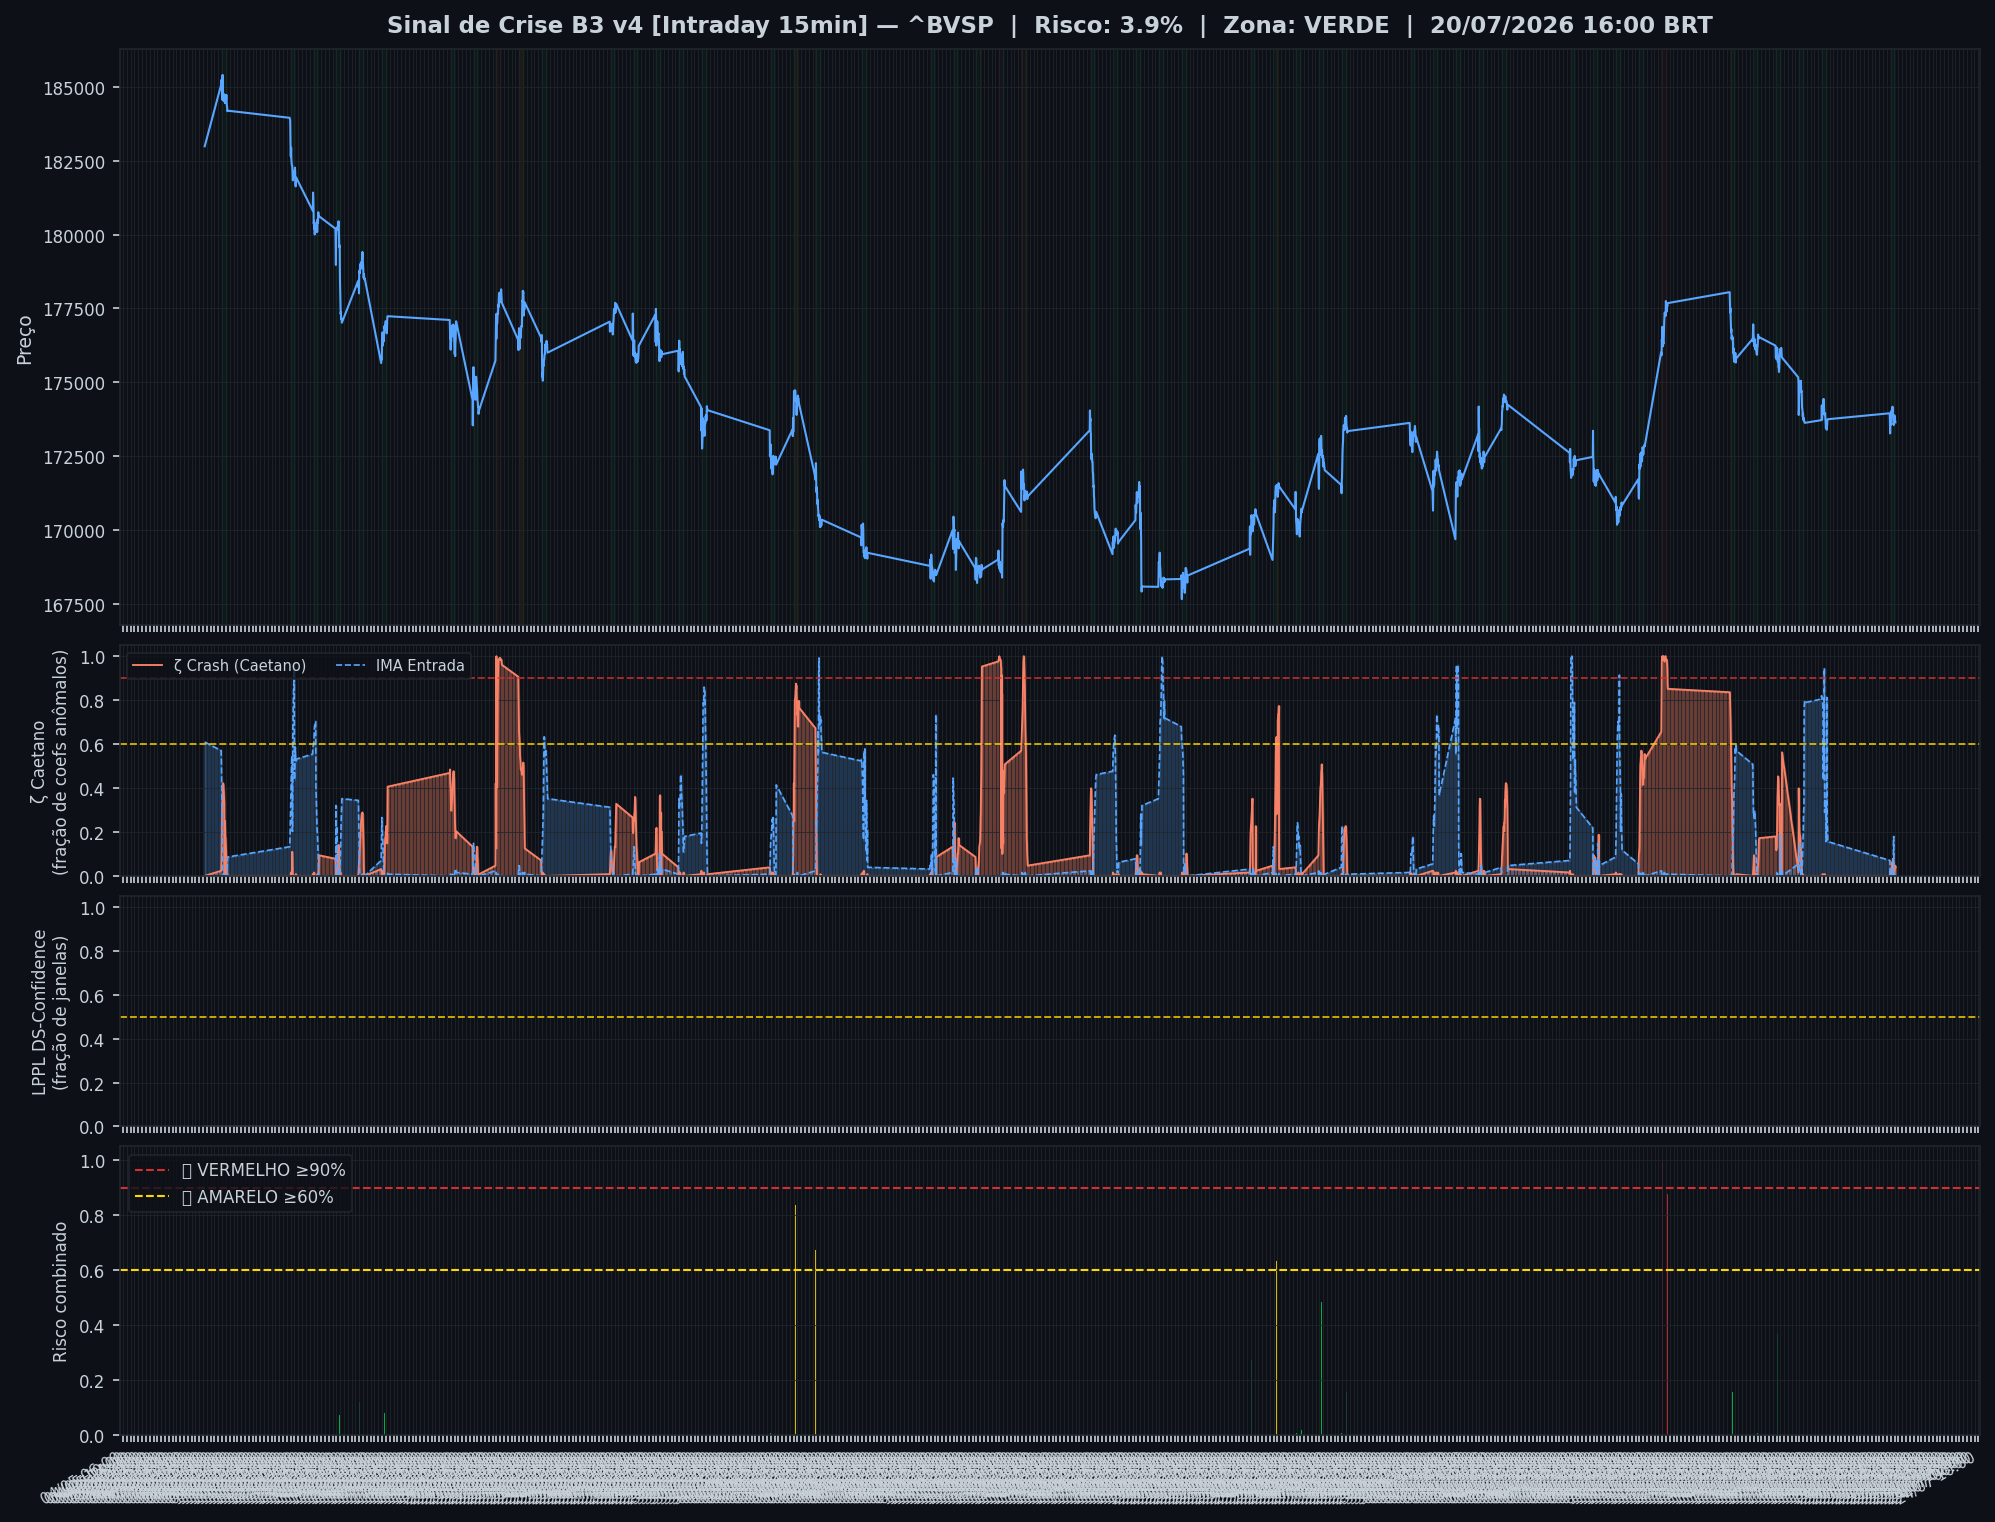
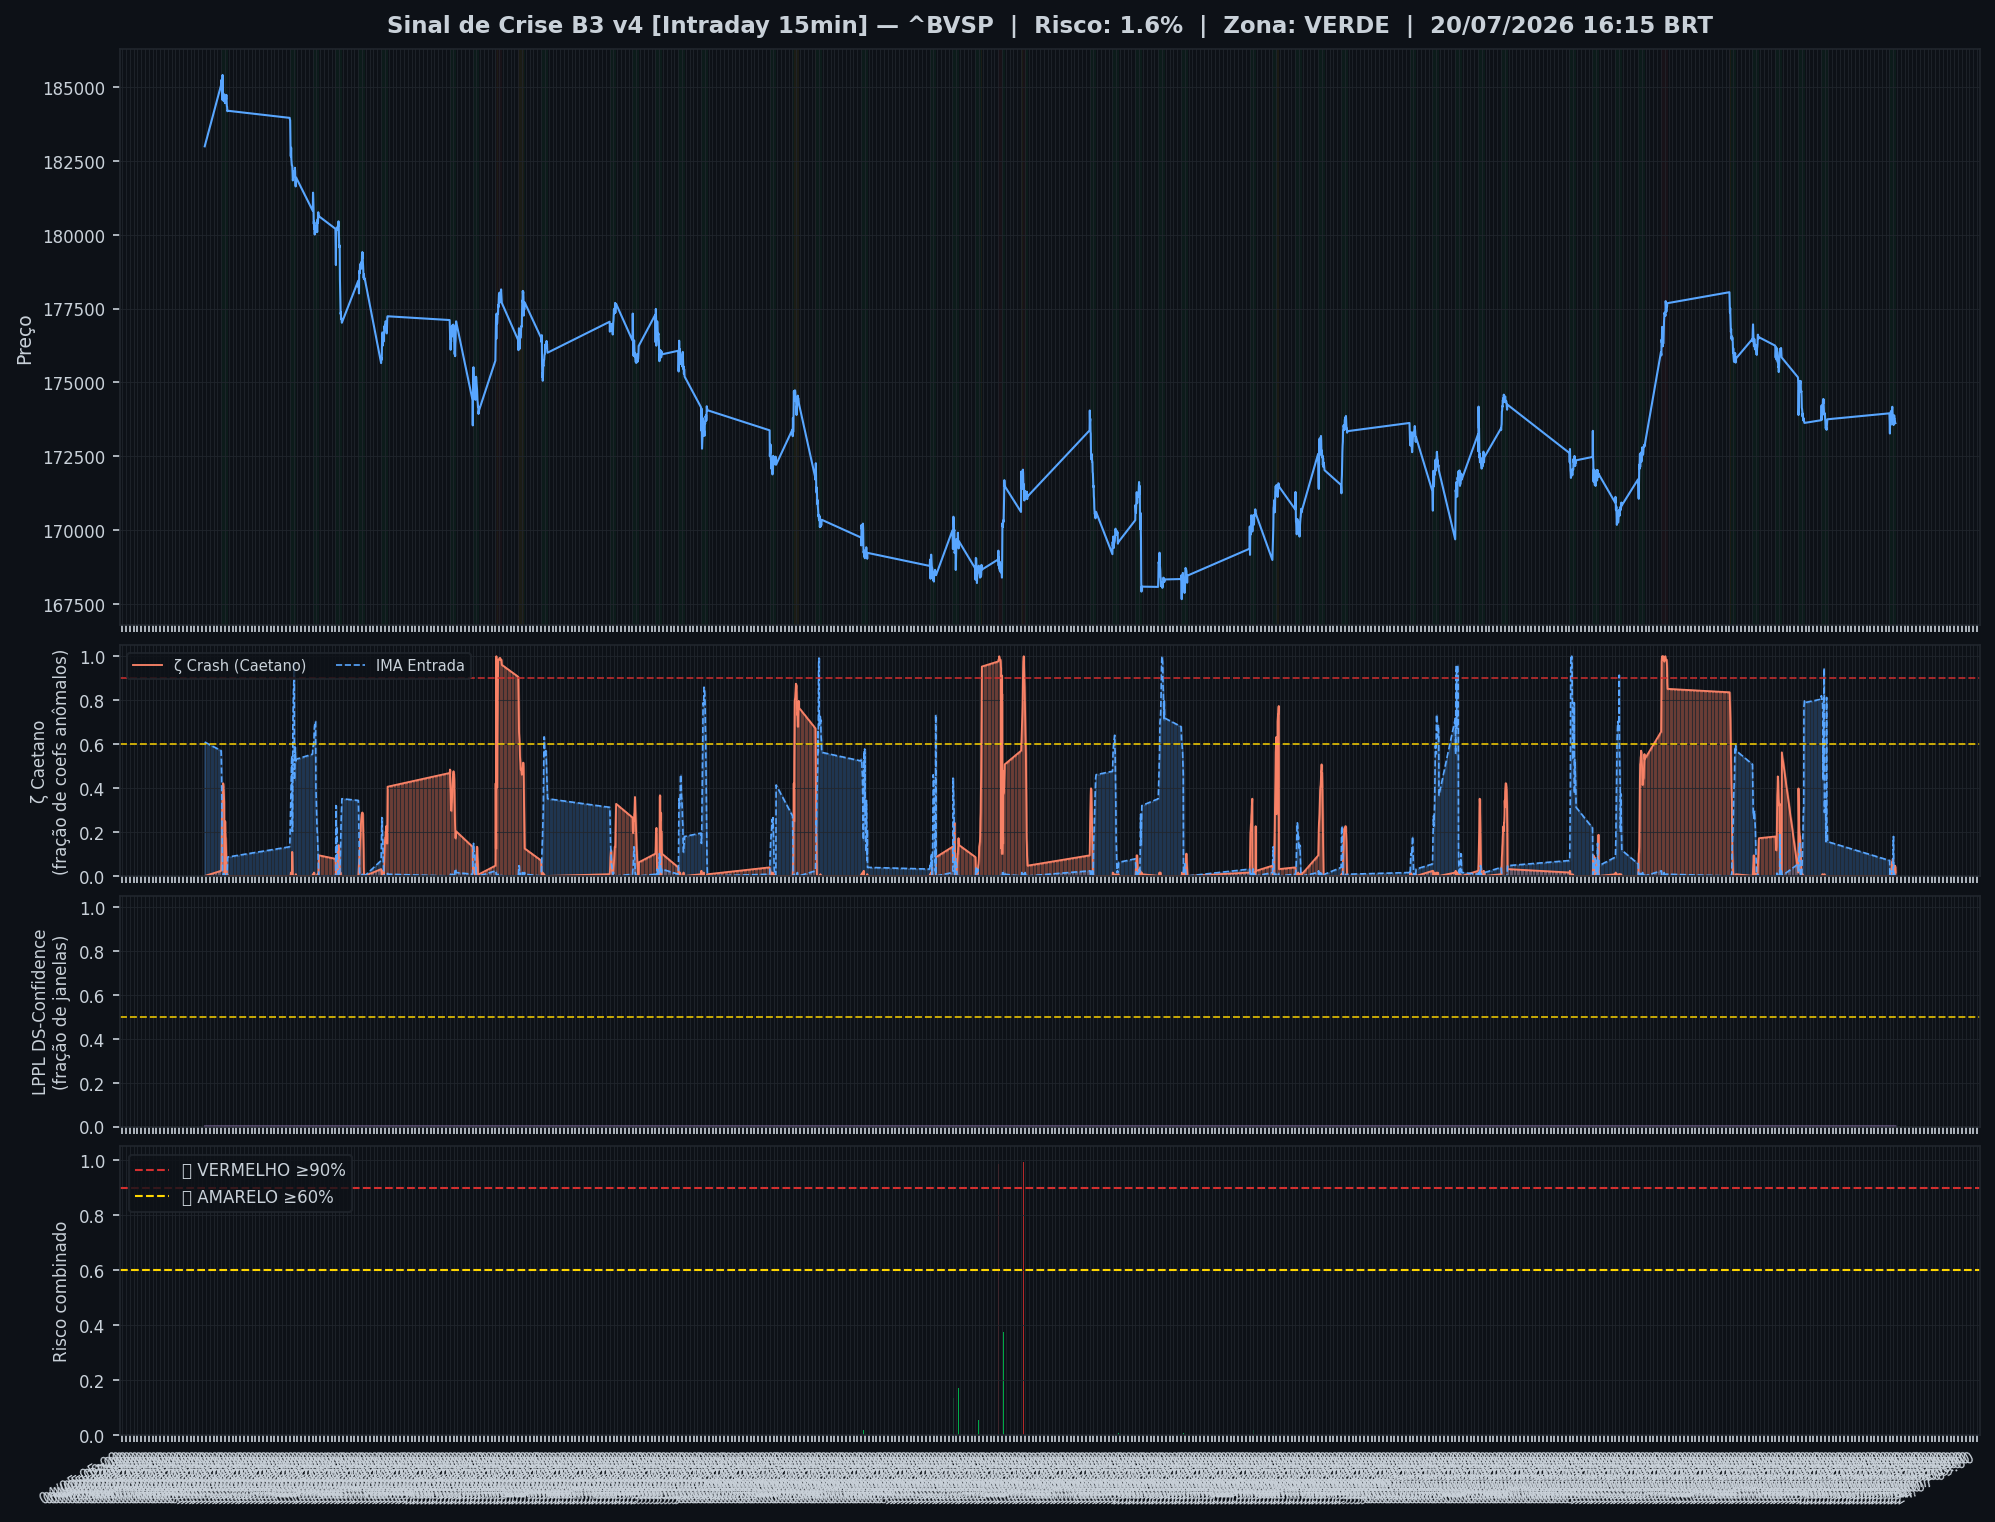
🤖 Auto: Sinal 20/07/2026 17:00

Changed region(s): [[0.0932, 0.4323, 0.9634, 0.5867], [0.0311, 0.9264, 0.9945, 0.9882], [0.4972, 0.4323, 0.5283, 0.4632]]

diff --git a/content/intraday/2026-07-20.md b/content/intraday/2026-07-20.md
@@ -1,20 +1,20 @@
 ---
-title: "🟢 Intraday 20/07/2026 16:00 BRT — VERDE"
+title: "🟢 Intraday 20/07/2026 16:15 BRT — VERDE"
 date: 2026-07-20
 tags: [intraday]
 ---
 
-> [!success] 🟢 **VERDE** — Risco 4% · ＝ +0 p.p. vs leitura anterior
-> `█░░░░░░░░░░░░░░░░░░░`
+> [!success] 🟢 **VERDE** — Risco 2% · ▼ -2 p.p. vs leitura anterior
+> `░░░░░░░░░░░░░░░░░░░░`
 > Mercado sem sinais relevantes de estresse.
 
 
 | Indicador | Valor |
 |---|---|
-| 🔴 ζ Crash — severidade da queda em curso | **4%** |
+| 🔴 ζ Crash — severidade da queda em curso | **2%** |
 | 🔵 ζ Entrada — estrutura de fundo | 0% |
 | 🫧 LPPL DS-Confidence | 0% |
-| 📊 Ibovespa | 173.644 pts |
+| 📊 Ibovespa | 173.620 pts |
 
 ![Gráfico do sinal](../graficos/sinal_intraday.png)
 
@@ -22,6 +22,7 @@ tags: [intraday]
 
 | Data | Zona | Risco | IMA Crash | Entrada | LPPL |
 |---|---|---|---|---|---|
+| 2026-07-20 16:15 | 🟢 VERDE | **2%** | 2% | 0% | 0% |
 | 2026-07-20 16:00 | 🟢 VERDE | **4%** | 4% | 0% | 0% |
 | 2026-07-20 15:45 | 🟢 VERDE | **4%** | 4% | 0% | 0% |
 | 2026-07-20 15:30 | 🟢 VERDE | **5%** | 5% | 0% | 0% |
@@ -51,7 +52,6 @@ tags: [intraday]
 | 2026-07-17 16:30 | 🟢 VERDE | **0%** | 0% | 22% | 0% |
 | 2026-07-17 16:15 | 🟢 VERDE | **0%** | 0% | 23% | 0% |
 | 2026-07-17 16:00 | 🟢 VERDE | **0%** | 0% | 23% | 0% |
-| 2026-07-17 15:45 | 🟢 VERDE | **0%** | 0% | 81% | 0% |
 
 ## Monitor Multi-Ativo
 
@@ -59,7 +59,6 @@ tags: [intraday]
 
 | Zona | Ativo | Setor | IMA Crash | IMA Entrada |
 |---|---|---|---|---|
-| 🟡 | **EQUATORIAL** | Energia | 79.7% | 0.0% |
 | 🟡 | **VALE** | Mineração | 78.1% | 0.0% |
 | 🟡 | **ITAUUNIBANCO** | Financeiro | 78.1% | 0.0% |
 | 🟡 | **PETROBRAS** | Petróleo | 78.1% | 0.0% |
@@ -74,6 +73,7 @@ tags: [intraday]
 | 🟡 | **WEG** | Industrial | 78.1% | 0.0% |
 | 🟡 | **BRASIL** | Financeiro | 78.1% | 0.0% |
 | 🟡 | **EMBRAER** | Outros | 78.1% | 0.0% |
+| 🟡 | **EQUATORIAL** | Energia | 78.1% | 0.0% |
 | 🟡 | **ENEVA** | Energia | 78.1% | 0.0% |
 | 🟡 | **COPEL** | Energia | 78.1% | 0.0% |
 | 🟡 | **PRIO** | Petróleo | 78.1% | 0.0% |
@@ -89,7 +89,7 @@ tags: [intraday]
 
 ![Monitor multi-ativo](../graficos/multi_intraday.png)
 
-*Página atualizada em 20/07/2026 16:45 BRT (leitura da barra de 2026-07-20 16:00 BRT).*
+*Página atualizada em 20/07/2026 17:00 BRT (leitura da barra de 2026-07-20 16:15 BRT).*
 
 > [!info]- Como interpretar (clique para expandir)
 > - **ζ Crash**: fração dos coeficientes wavelet acima do corte (Caetano & Yoneyama 2009). Escala absoluta: ζ=0,90 = 90% dos coeficientes anômalos — historicamente, quedas com ζ≥0,90 foram mais fundas e mais longas. **Mede a severidade do movimento em curso, não prevê o início da queda.**

diff --git a/content/index.md b/content/index.md
@@ -8,19 +8,19 @@ tags: [home]
 
 Monitoramento diário e intraday do Ibovespa — **IMA Wavelet** (Prof. Marco Antonio Leonel Caetano, ITA/INSPER) + **LPPL DS-Confidence** (Prof. Didier Sornette, ETH-Zurich).
 
-*Última atualização: 20/07/2026 16:45 BRT · ^BVSP · Intraday 15min · v4*
+*Última atualização: 20/07/2026 17:00 BRT · ^BVSP · Intraday 15min · v4*
 
-> [!success] 🟢 **VERDE** — Risco 4% · ＝ +0 p.p. vs leitura anterior
-> `█░░░░░░░░░░░░░░░░░░░`
+> [!success] 🟢 **VERDE** — Risco 2% · ▼ -2 p.p. vs leitura anterior
+> `░░░░░░░░░░░░░░░░░░░░`
 > Mercado sem sinais relevantes de estresse.
 
 
 | Indicador | Valor |
 |---|---|
-| 🔴 ζ Crash — severidade da queda em curso | **4%** |
+| 🔴 ζ Crash — severidade da queda em curso | **2%** |
 | 🔵 ζ Entrada — estrutura de fundo | 0% |
 | 🫧 LPPL DS-Confidence | 0% |
-| 📊 Ibovespa | 173.644 pts |
+| 📊 Ibovespa | 173.620 pts |
 
 **Multi-ativo:** 100% em tensão (0🔴 27🟡 de 27 ativos)
 
@@ -32,7 +32,7 @@ Monitoramento diário e intraday do Ibovespa — **IMA Wavelet** (Prof. Marco An
 
 | Data | Zona | Risco | IMA | LPPL |
 |---|---|---|---|---|
-| [20 Jul 2026](diario/2026-07-20) | 🟢 VERDE | **4%** | 4% | 0% |
+| [20 Jul 2026](diario/2026-07-20) | 🟢 VERDE | **2%** | 2% | 0% |
 | [17 Jul 2026](diario/2026-07-17) | 🟢 VERDE | **0%** | 0% | 0% |
 
 ## Navegação

diff --git a/content/historico.md b/content/historico.md
@@ -7,6 +7,7 @@ tags: [historico]
 
 | Data | Modo | Zona | Risco | IMA | LPPL |
 |---|---|---|---|---|---|
+| 2026-07-20 16:15 | intraday | 🟢 VERDE | 2% | 2% | 0% |
 | 2026-07-20 16:00 | intraday | 🟢 VERDE | 4% | 4% | 0% |
 | 2026-07-20 15:45 | intraday | 🟢 VERDE | 4% | 4% | 0% |
 | 2026-07-20 15:30 | intraday | 🟢 VERDE | 5% | 5% | 0% |
